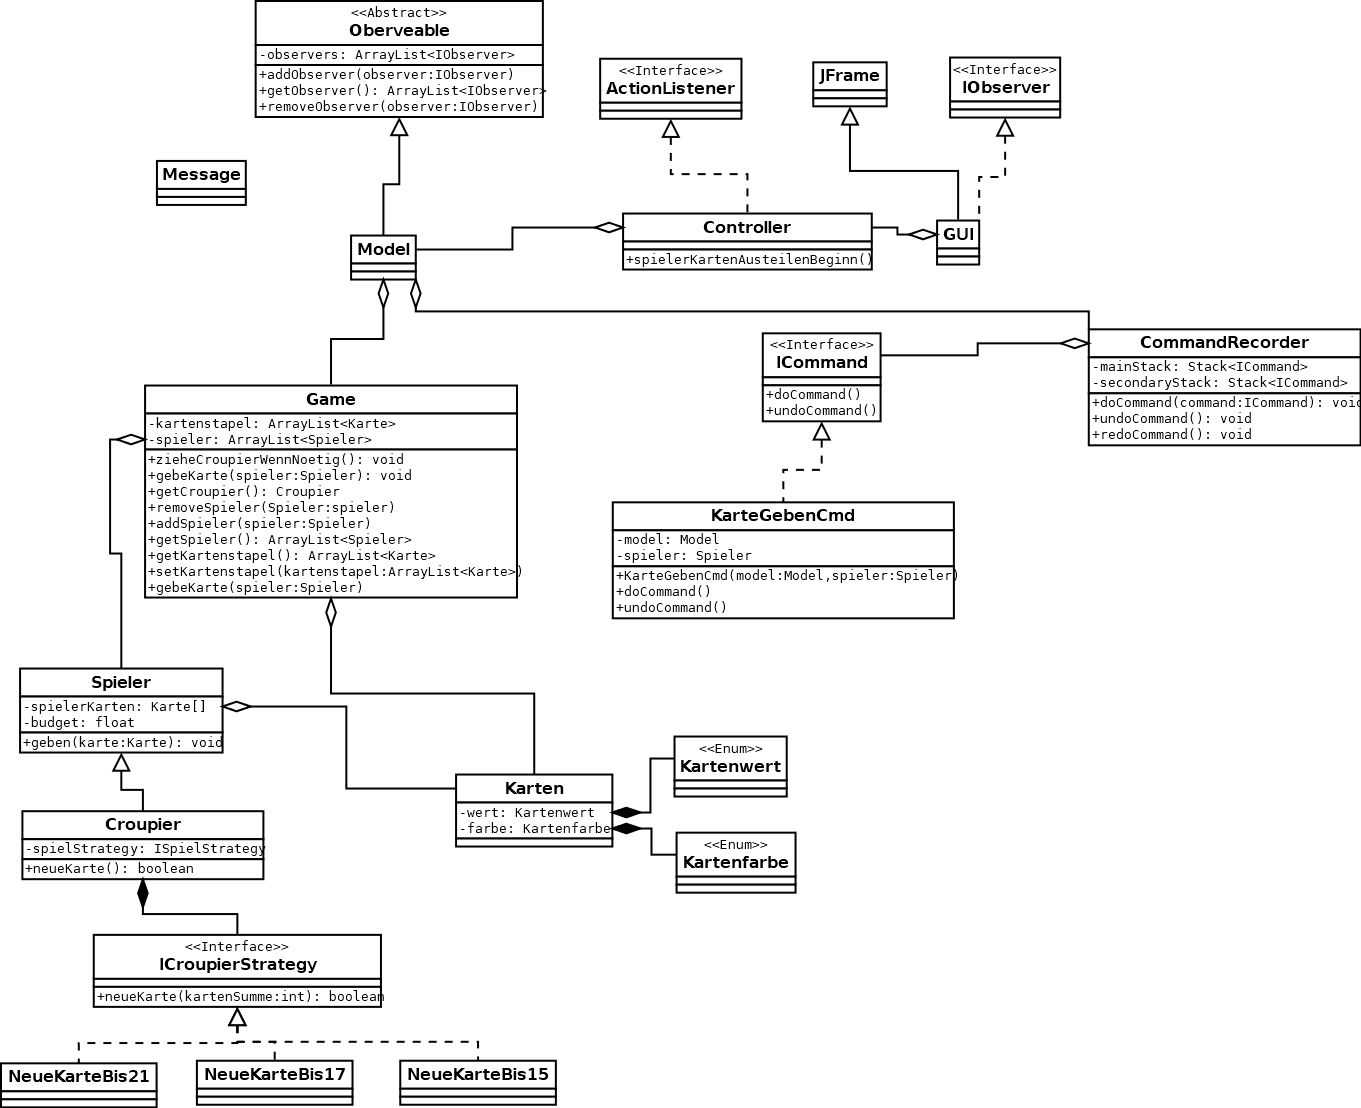
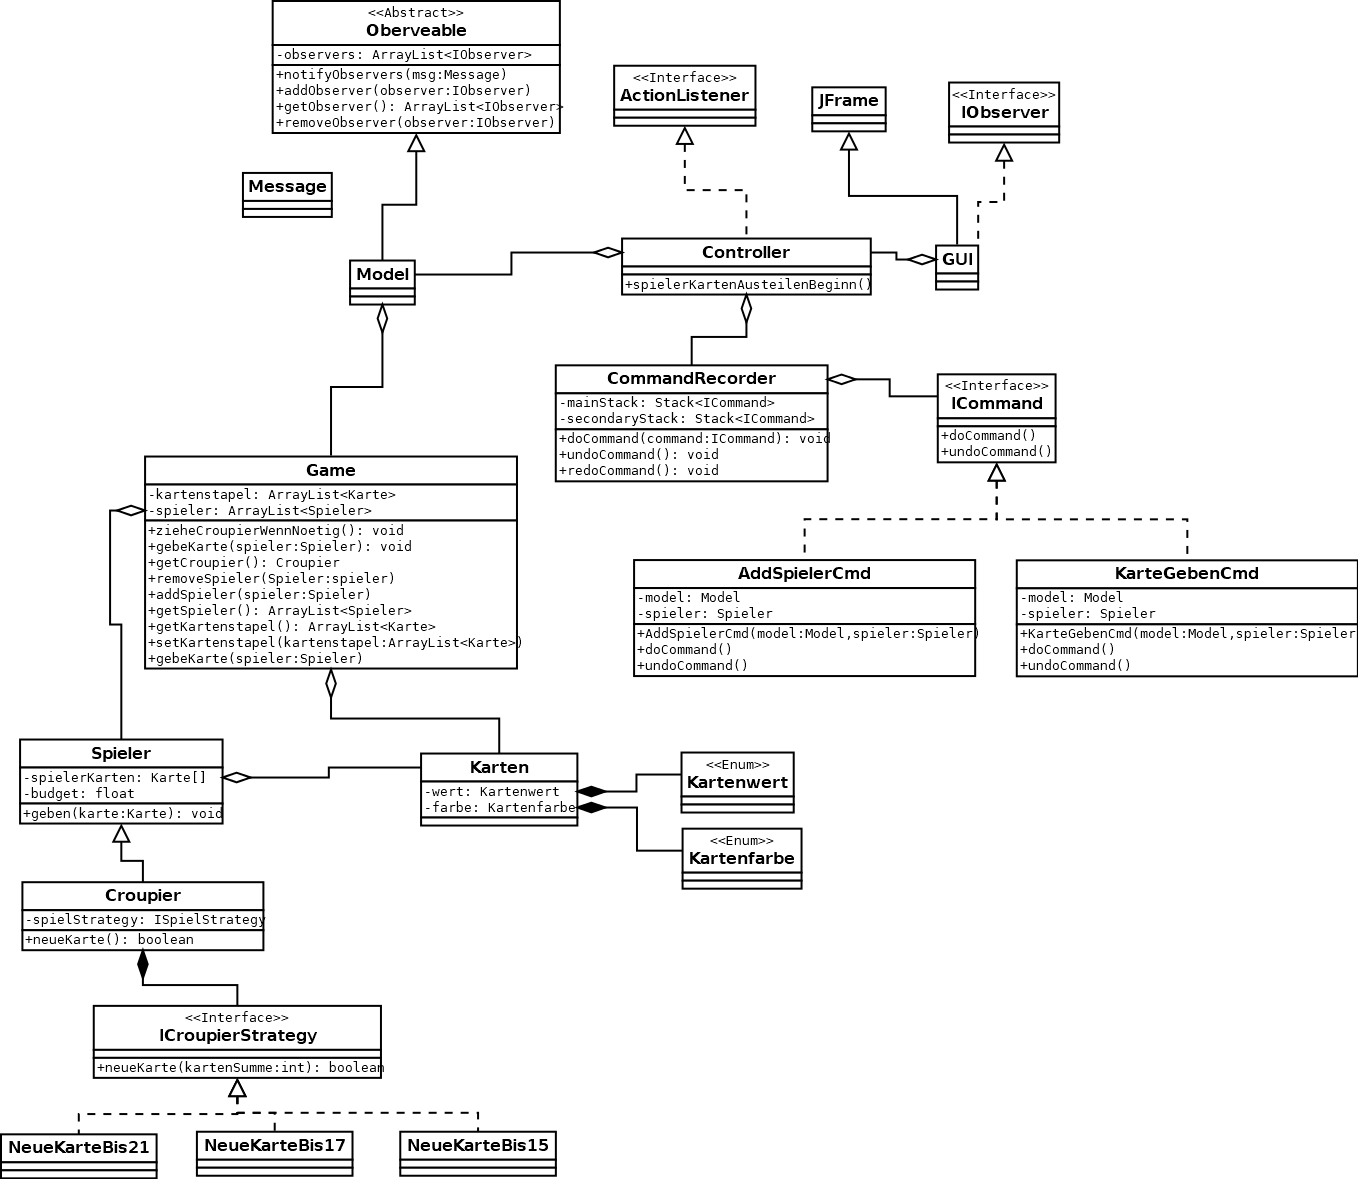
Improved Command Pattern

diff --git a/src/control/Controller.java b/src/control/Controller.java
@@ -2,24 +2,35 @@ package control;
 
 import model.Game;
 import model.Model;
+import model.command.CommandRecorder;
+import model.command.ICommand;
+import model.command.KarteGebenCmd;
 import model.strategy.NeueKarteBis17;
 import model.Spieler;
 
 public class Controller {
 
+    private CommandRecorder recorder;
     private Model model;
 
     /** Zu Beginn erhalten alle Spieler ein paar Karten */
     public void spielerKartenAusteilenBeginn() {
         for(Spieler s : model.getSpieler()) {
             for(int i = 0; i < Game.ANZ_KARTEN_BEGINN; i++) {
-                model.gebeKarte(s);
+                gebeKarte(s);
             }
         }
     }
 
+    public void gebeKarte(Spieler s) {
+        ICommand c = new KarteGebenCmd(model, s);
+        recorder.doCommand(c);
+    }
+
+
     public void initGame() {
 
+        recorder = new CommandRecorder();
         model = new Model();
         model.getGame().initGame();
 
@@ -31,5 +42,18 @@ public class Controller {
 
         // Jedem Spieler seine Anfangs-Karten geben
         spielerKartenAusteilenBeginn();
+    }
+
+
+    /** Von GUI Befehlen
+     */
+    public void undo() {
+        recorder.undoCommand();
+    }
+
+    /** Von GUI Befehlen
+     */
+    public void redo() {
+        recorder.redoCommand();
     }
 }

diff --git a/src/model/Model.java b/src/model/Model.java
@@ -9,17 +9,13 @@ import java.util.ArrayList;
 public class Model extends Observeable {
 
     private Game game;
-    private CommandRecorder recorder;
 
     public Model() {
         game = new Game();
-        recorder = new CommandRecorder();
     }
 
     public void gebeKarte(Spieler s) {
-        //game.gebeKarte(s); Methode wird im CommandRecoder ausgeführt
-        ICommand c = new KarteGebenCmd(this, s);
-        recorder.doCommand(c);
+        game.gebeKarte(s);
         notifyObservers(new Message()); // Message sollte irgendwas beinhalten
     }
 
